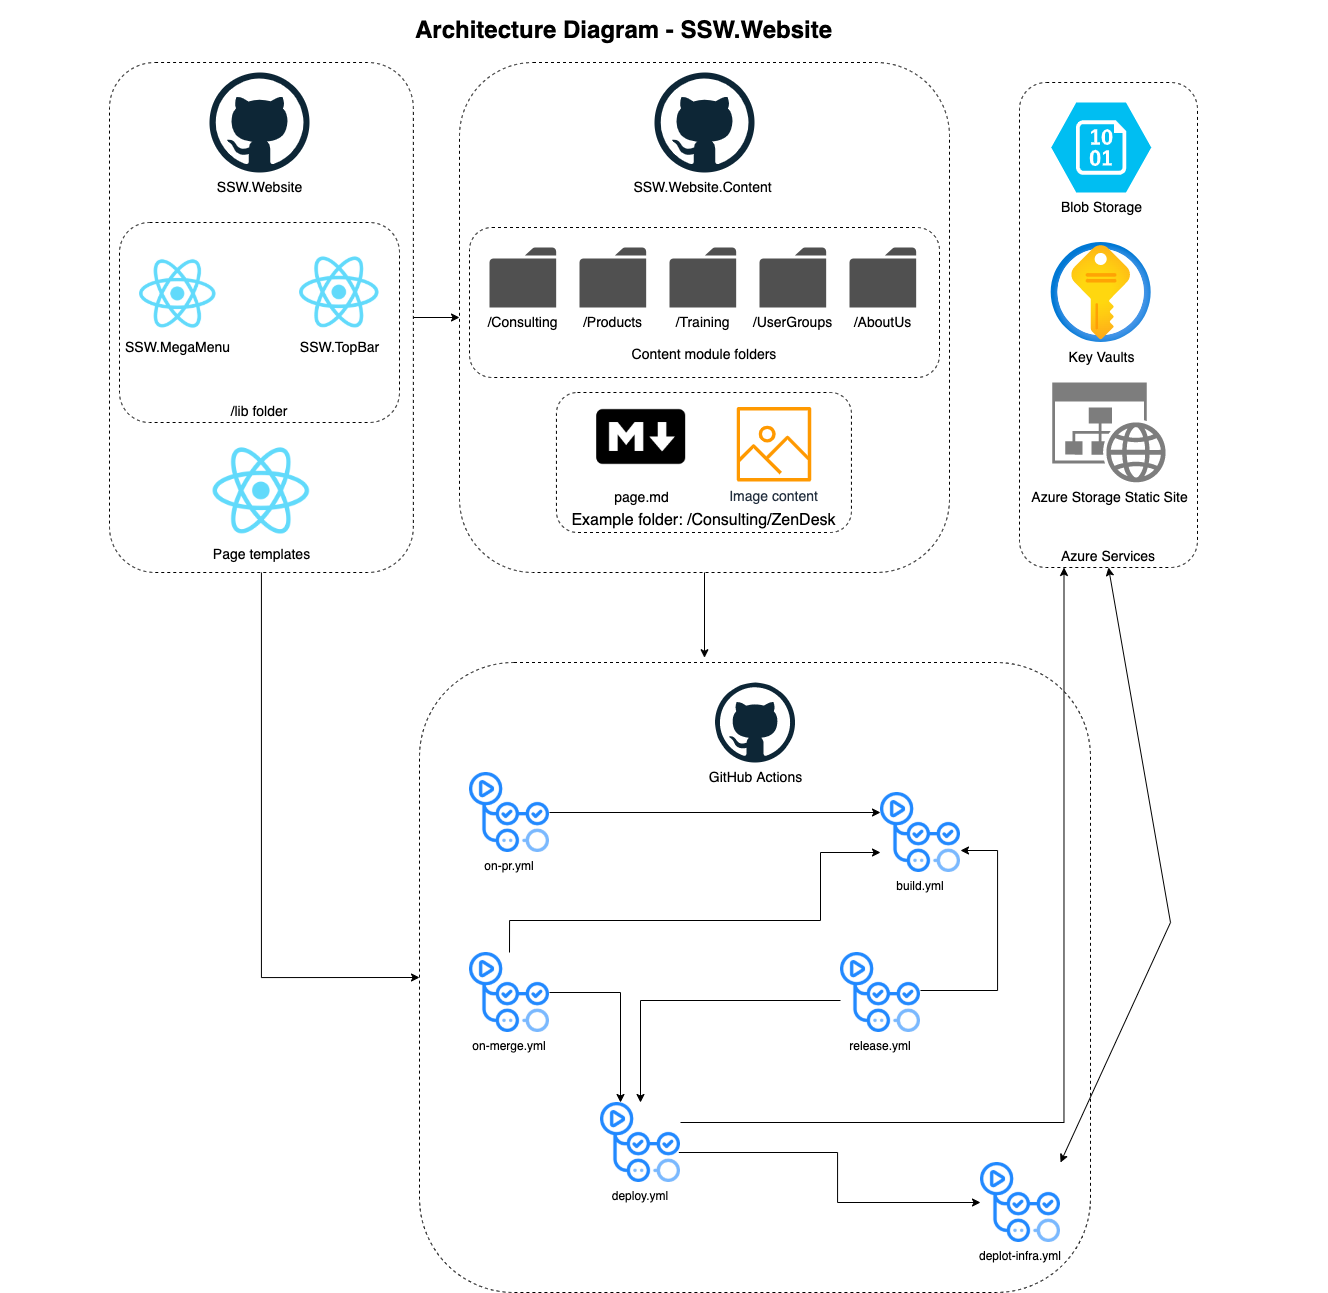
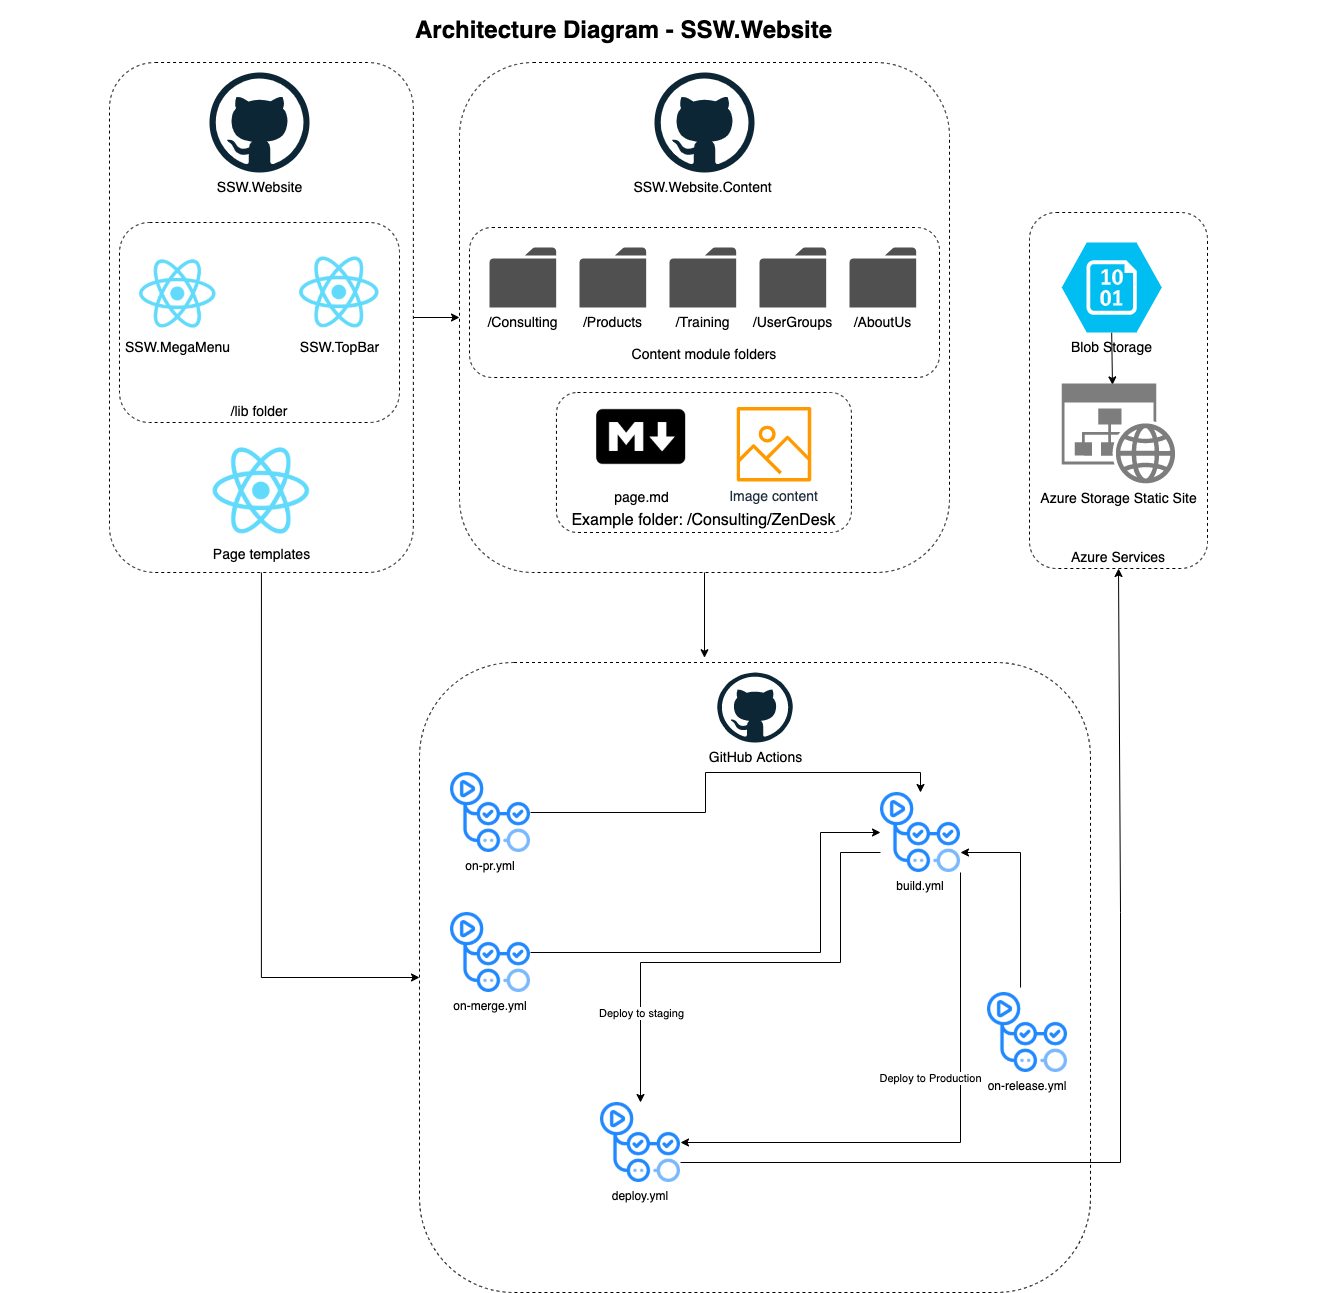
📝  Update architechture diagram

diff --git a/_docs/Technologies-and-Architecture.md b/_docs/Technologies-and-Architecture.md
@@ -7,6 +7,9 @@ This documents aims to provide an overview of the technologies used in this proj
 ![SSW-Website-Architecture-v2](architechture-diagrams/SSW-Website-Architecture-v2.png)
 **Figure: SSW Website Architecture Diagram**
 
+The github action flow is not exactly as depicted in the diagram. 
+`on-merge.yml` and `on-release.yml` call build and deploy sequentially.
+
 ## Coding Patterns
 
 [Rules to Better Clean Architecture](https://www.ssw.com.au/rules/rules-to-better-clean-architecture) not applicable
